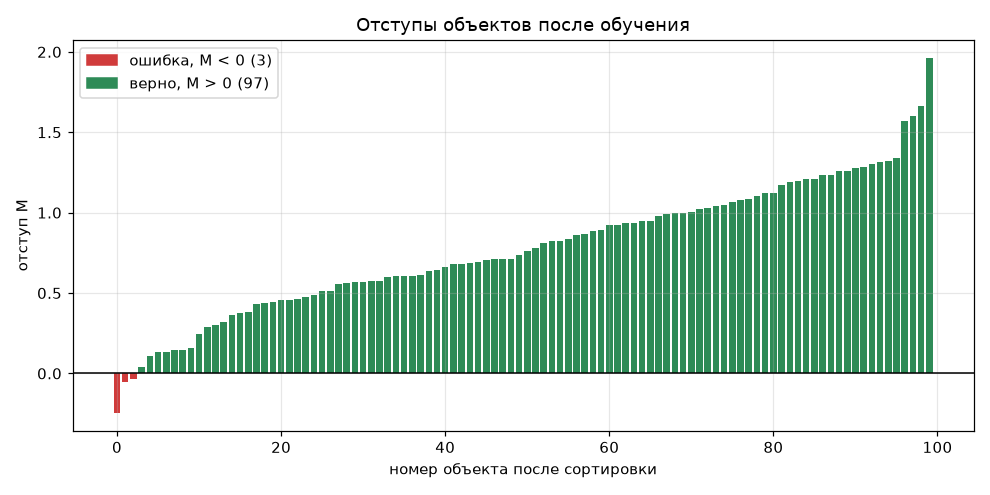
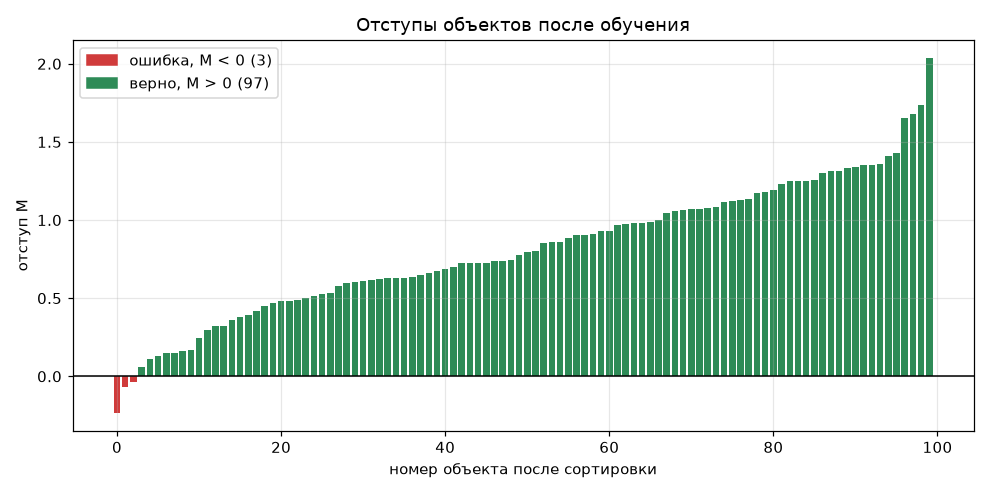
feat(lab1): add momentum to sgd

diff --git a/students/karabanov-af/lab1/source/main.py b/students/karabanov-af/lab1/source/main.py
@@ -45,16 +45,21 @@ def gradient_check(X, y, w):
 
 
 def training(X, y, w):
-    print("## Обучение (SGD без инерции)")
-    w_trained, history = sgd(X, y, w, lr=0.01, n_epochs=50)
-    m = margins(w_trained, X, y)
-    print("веса после обучения:", np.round(w_trained, 3))
-    print(f"Q: {history[0]:.3f} -> {history[-1]:.3f}")
-    print(f"ошибок (M < 0): {(margins(w, X, y) < 0).sum()} -> {(m < 0).sum()}\n")
-    plots.plot_sorted_margins(m, "Отступы объектов после обучения",
+    print("## Обучение")
+    histories, trained = {}, {}
+    for label, momentum in [("SGD без инерции", 0.0), ("SGD с инерцией", 0.9)]:
+        trained[label], histories[label] = sgd(X, y, w, lr=0.01, momentum=momentum, n_epochs=50)
+        m = margins(trained[label], X, y)
+        print(f"{label}: Q {histories[label][0]:.3f} -> {histories[label][-1]:.3f}, "
+              f"ошибок {(margins(w, X, y) < 0).sum()} -> {(m < 0).sum()}")
+        print("  веса:", np.round(trained[label], 3))
+
+    best = trained["SGD с инерцией"]
+    plots.plot_sorted_margins(margins(best, X, y), "Отступы объектов после обучения",
                               os.path.join(IMAGES, "margins_trained.png"))
-    plots.plot_risk(history, "Эмпирический риск по эпохам", os.path.join(IMAGES, "risk.png"))
-    return w_trained
+    plots.plot_risk(histories, "Эмпирический риск по эпохам", os.path.join(IMAGES, "risk.png"))
+    print()
+    return best
 
 
 def main():

diff --git a/students/karabanov-af/lab1/source/classifier.py b/students/karabanov-af/lab1/source/classifier.py
@@ -20,12 +20,17 @@ def empirical_risk(w, X, y):
     return quadratic_loss(margins(w, X, y)).mean()
 
 
-def sgd(X, y, w, lr=0.01, n_epochs=50, seed=0):
-    """Plain SGD: one weight update per object, objects are reshuffled every epoch."""
+def sgd(X, y, w, lr=0.01, momentum=0.0, n_epochs=50, seed=0):
+    """SGD with momentum: v = gamma * v + (1 - gamma) * lr * grad, then w = w - v.
+
+    Objects are reshuffled every epoch, momentum = 0 gives plain SGD.
+    """
     rng = np.random.default_rng(seed)
+    v = np.zeros_like(w)
     history = [empirical_risk(w, X, y)]
     for _ in range(n_epochs):
         for i in rng.permutation(len(y)):
-            w = w - lr * loss_gradient(w, X[i], y[i])
+            v = momentum * v + (1 - momentum) * lr * loss_gradient(w, X[i], y[i])
+            w = w - v
         history.append(empirical_risk(w, X, y))
     return w, history

diff --git a/students/karabanov-af/lab1/source/plots.py b/students/karabanov-af/lab1/source/plots.py
@@ -8,6 +8,7 @@ from matplotlib.patches import Patch
 import numpy as np
 
 CORRECT, WRONG = "#2e8b57", "#d03b3b"
+CURVES = ["#2a78d6", "#eb6834"]
 
 
 def plot_sorted_margins(m, title, path):
@@ -34,9 +35,10 @@ def plot_sorted_margins(m, title, path):
     plt.close(fig)
 
 
-def plot_risk(history, title, path):
+def plot_risk(histories, title, path):
     fig, ax = plt.subplots(figsize=(9, 4.5))
-    ax.plot(history, color="#2a78d6", linewidth=2, label="эмпирический риск Q")
+    for (label, history), color in zip(histories.items(), CURVES):
+        ax.plot(history, color=color, linewidth=2, label=label)
     ax.set_xlabel("эпоха")
     ax.set_ylabel("Q")
     ax.set_title(title)
